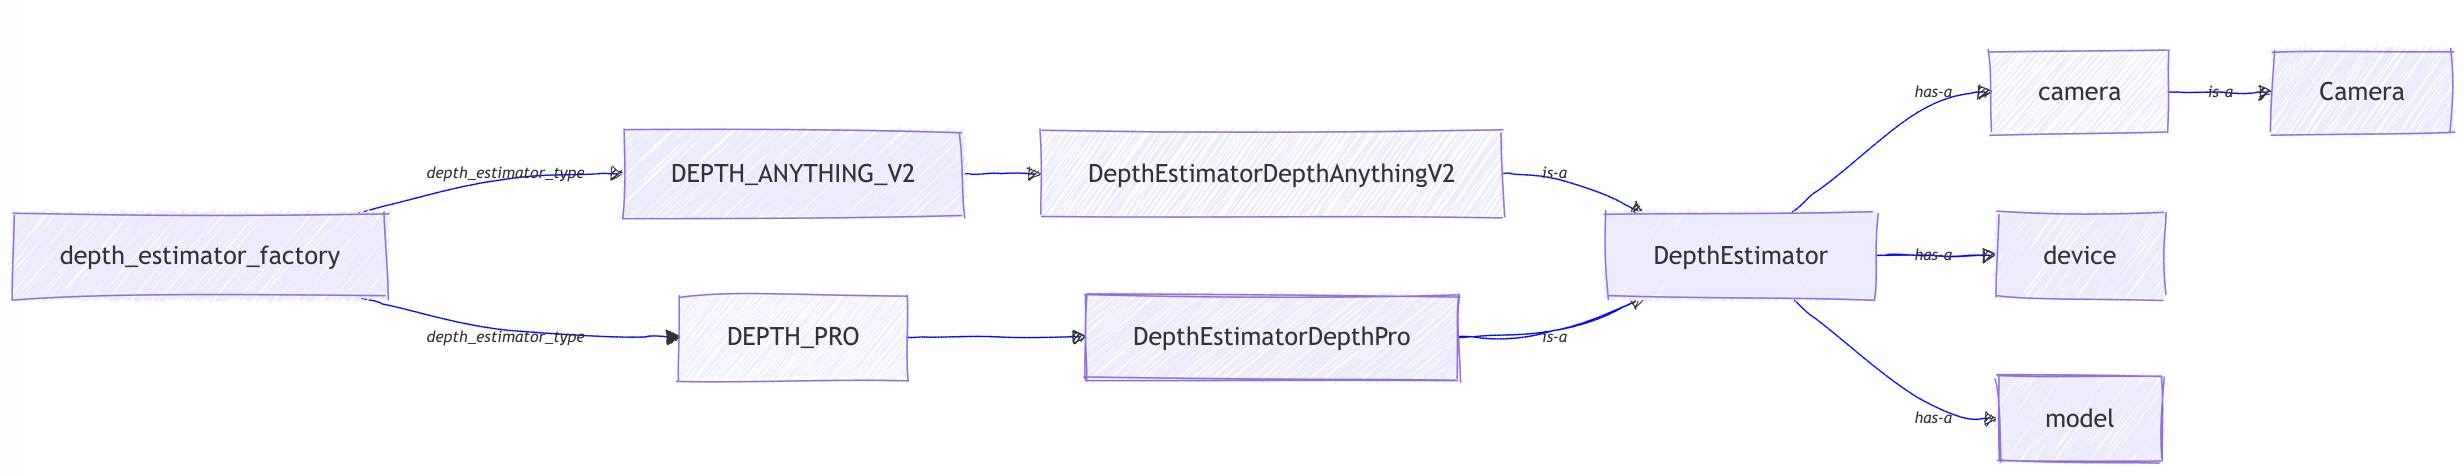
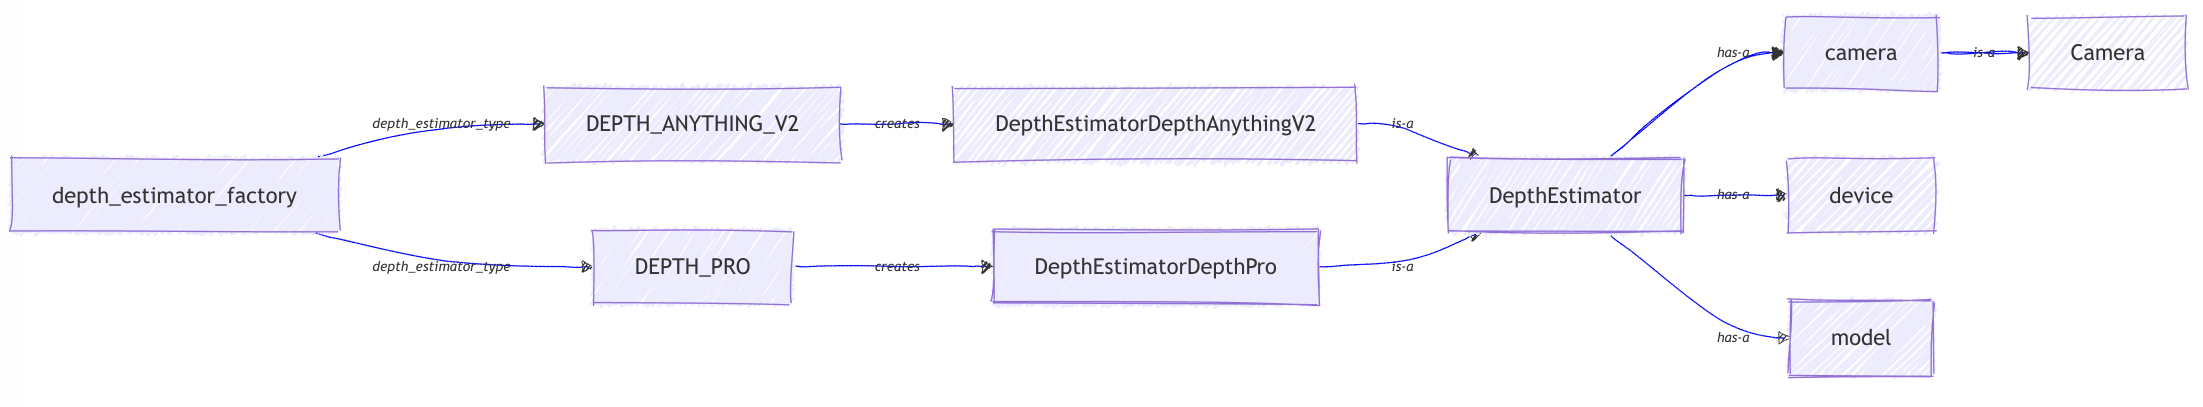
Improved README.

diff --git a/loop_detector_configs.py b/loop_detector_configs.py
@@ -63,12 +63,16 @@ kDataFolder = kRootFolder + '/data'
 @register_class
 class GlobalDescriptorType(SerializableEnum):
     # These types take the name from the adopted aggregation type and underlying local descriptor type. 
-    DBOW2       = 0     # Bags of Words (BoW). This implementation only works with ORB local features. It needs an ORB vocabulary (available).
+    DBOW2       = 0     # Bags of Words (BoW). This implementation only works with ORB local features. 
+                        # It needs an ORB vocabulary (available).
                         # Reference: "Bags of Binary Words for Fast Place Recognition in Image Sequences"
-    DBOW3       = 1     # Bags of Words (BoW). It needs a vocabulary (available for ORB).
-    OBINDEX2    = 2     # Hierarchical indexing scheme. Incremental Bags of binary Words. Incrementally builds a vocabulary. If needed, it transforms the input non-binary local descriptors into binary descriptors.
+    DBOW3       = 1     # Bags of Words (BoW).
+                        # It needs a vocabulary (available for ORB).
+    OBINDEX2    = 2     # Hierarchical indexing scheme. Incremental Bags of binary Words. 
+                        # Incrementally builds a vocabulary. If needed, it transforms the input non-binary local descriptors into binary descriptors.
                         # Reference: "iBoW-LCD: An Appearance-based Loop Closure Detection Approach using Incremental Bags of Binary Words"
-    IBOW        = 3     # Incremental Bags of binary Words (iBoW). Built on the top of OBINDEX2. It incrementally builds a vocabulary. If needed, it transforms input non-binary local descriptors into binary descriptors.
+    IBOW        = 3     # Incremental Bags of binary Words (iBoW). Built on the top of OBINDEX2. 
+                        # It incrementally builds a vocabulary. If needed, it transforms input non-binary local descriptors into binary descriptors.
                         # Reference: "iBoW-LCD: An Appearance-based Loop Closure Detection Approach using Incremental Bags of Binary Words"
     HDC_DELF    = 4     # Local DELF descriptor + Hyperdimensional Computing (HDC).
                         # Reference: "Large-Scale Image Retrieval with Attentive Deep Local Features", "Hyperdimensional Computing as a Framework for Systematic Aggregation of Image Descriptors"

diff --git a/opencv_check.py b/opencv_check.py
@@ -37,3 +37,13 @@ if __name__ == "__main__":
         except Exception as e:
             print(f"Exception: {e}")
             print(f'Could not find linked OpenCV library details')
+            
+            
+    if True: 
+        try: 
+            detector = cv2.xfeatures2d.SURF_create()
+            print(f"Detector: {detector} created")
+            print(f'You have non-free OpenCV support!')
+        except Exception as e:
+            print(f"Exception: {e}")
+            print(f'Could not create SURF detector: You dont have non-free OpenCV support!')

diff --git a/README.md b/README.md
@@ -5,50 +5,52 @@ Author: **[Luigi Freda](https://www.luigifreda.com)**
 <!-- TOC -->
 
 - [pySLAM v2.2.5](#pyslam-v225)
-  - [Install](#install)
-    - [Main requirements](#main-requirements)
-    - [Ubuntu](#ubuntu)
-    - [MacOS](#macos)
-    - [Docker](#docker)
-    - [How to install non-free OpenCV modules](#how-to-install-non-free-opencv-modules)
-    - [Troubleshooting and performance issues](#troubleshooting-and-performance-issues)
-  - [Usage](#usage)
-    - [Feature tracking](#feature-tracking)
-    - [Loop closing](#loop-closing)
-    - [Volumetric reconstruction pipeline](#volumetric-reconstruction-pipeline)
-    - [Depth prediction](#depth-prediction)
-    - [Save and reload a map](#save-and-reload-a-map)
-    - [Relocalization in a loaded map](#relocalization-in-a-loaded-map)
-    - [Trajectory saving](#trajectory-saving)
-    - [SLAM GUI](#slam-gui)
-    - [Monitor the logs for tracking, local mapping, and loop closing simultaneously](#monitor-the-logs-for-tracking-local-mapping-and-loop-closing-simultaneously)
-  - [Supported local features](#supported-local-features)
-  - [Supported matchers](#supported-matchers)
-  - [Supported global descriptors and local descriptor aggregation methods](#supported-global-descriptors-and-local-descriptor-aggregation-methods)
-      - [Local descriptor aggregation methods](#local-descriptor-aggregation-methods)
-      - [Global descriptors](#global-descriptors)
-  - [Supported depth prediction models](#supported-depth-prediction-models)
-  - [Datasets](#datasets)
-    - [KITTI Datasets](#kitti-datasets)
-    - [TUM Datasets](#tum-datasets)
-    - [EuRoC Dataset](#euroc-dataset)
-  - [Camera Settings](#camera-settings)
-  - [Comparison pySLAM vs ORB-SLAM3](#comparison-pyslam-vs-orb-slam3)
-  - [Contributing to pySLAM](#contributing-to-pyslam)
-  - [References](#references)
-  - [Credits](#credits)
-  - [TODOs](#todos)
+    - [1. Install](#1-install)
+        - [1.1. Main requirements](#11-main-requirements)
+        - [1.2. Ubuntu](#12-ubuntu)
+        - [1.3. MacOS](#13-macos)
+        - [1.4. Docker](#14-docker)
+        - [1.5. How to install non-free OpenCV modules](#15-how-to-install-non-free-opencv-modules)
+        - [1.6. Troubleshooting and performance issues](#16-troubleshooting-and-performance-issues)
+    - [2. Usage](#2-usage)
+        - [2.1. Feature tracking](#21-feature-tracking)
+        - [2.2. Loop closing](#22-loop-closing)
+            - [2.2.1. Vocabulary management for DBoW and VLAD](#221-vocabulary-management-for-dbow-and-vlad)
+            - [2.2.2. Vocabulary-free loop closing](#222-vocabulary-free-loop-closing)
+        - [2.3. Volumetric reconstruction pipeline](#23-volumetric-reconstruction-pipeline)
+        - [2.4. Depth prediction](#24-depth-prediction)
+        - [2.5. Save and reload a map](#25-save-and-reload-a-map)
+        - [2.6. Relocalization in a loaded map](#26-relocalization-in-a-loaded-map)
+        - [2.7. Trajectory saving](#27-trajectory-saving)
+        - [2.8. SLAM GUI](#28-slam-gui)
+        - [2.9. Monitor the logs for tracking, local mapping, and loop closing simultaneously](#29-monitor-the-logs-for-tracking-local-mapping-and-loop-closing-simultaneously)
+    - [3. Supported local features](#3-supported-local-features)
+    - [4. Supported matchers](#4-supported-matchers)
+    - [5. Supported global descriptors and local descriptor aggregation methods](#5-supported-global-descriptors-and-local-descriptor-aggregation-methods)
+            - [5.1. Local descriptor aggregation methods](#51-local-descriptor-aggregation-methods)
+            - [5.2. Global descriptors](#52-global-descriptors)
+    - [6. Supported depth prediction models](#6-supported-depth-prediction-models)
+    - [7. Datasets](#7-datasets)
+        - [7.1. KITTI Datasets](#71-kitti-datasets)
+        - [7.2. TUM Datasets](#72-tum-datasets)
+        - [7.3. EuRoC Dataset](#73-euroc-dataset)
+    - [8. Camera Settings](#8-camera-settings)
+    - [9. Comparison pySLAM vs ORB-SLAM3](#9-comparison-pyslam-vs-orb-slam3)
+    - [10. Contributing to pySLAM](#10-contributing-to-pyslam)
+    - [11. References](#11-references)
+    - [12. Credits](#12-credits)
+    - [13. TODOs](#13-todos)
 
 <!-- /TOC -->
  
-**pySLAM** is a python implementation of a *Visual SLAM* pipeline that supports **monocular**, **stereo** and **RGBD** cameras. It provides the following features:
+**pySLAM** is a python implementation of a *Visual SLAM* pipeline that supports **monocular**, **stereo** and **RGBD** cameras. It provides the following **features**:
 - A wide range of classical and modern **[local features](#supported-local-features)** with a convenient interface for their integration.
 - Various loop closing methods, including **[descriptor aggregators](#supported-global-descriptors-and-local-descriptor-aggregation-methods)** such as visual Bag of Words (BoW, iBow), Vector of Locally Aggregated Descriptors (VLAD) and modern **[global descriptors](#supported-global-descriptors-and-local-descriptor-aggregation-methods)** (image-wise descriptors).
 - A **[volumetric reconstruction pipeline](#volumetric-reconstruction-pipeline)** that processes available depth and color images.
 - Integration of **[depth prediction models](#depth-prediction)**, including DepthPro and DepthAnythingV2, within the SLAM pipeline.  
 - A collection of other useful tools for VO and SLAM.
 
-**Main Scripts**:
+**Main Scripts**
 * `main_vo.py` combines the simplest VO ingredients without performing any image point triangulation or windowed bundle adjustment. At each step $k$, `main_vo.py` estimates the current camera pose $C_k$ with respect to the previous one $C_{k-1}$. The inter-frame pose estimation returns $[R_{k-1,k},t_{k-1,k}]$ with $\Vert t_{k-1,k} \Vert=1$. With this very basic approach, you need to use a ground truth in order to recover a correct inter-frame scale $s$ and estimate a valid trajectory by composing $C_k = C_{k-1} [R_{k-1,k}, s t_{k-1,k}]$. This script is a first start to understand the basics of inter-frame feature tracking and camera pose estimation.
 
 * `main_slam.py` adds feature tracking along multiple frames, point triangulation, keyframe management, bundle adjustment, loop closing, dense mapping and depth inference in order to estimate the camera trajectory and build both a sparse and dense map. It's a full SLAM pipeline and includes all the basic and advanced blocks which are necessary to develop a real visual SLAM pipeline.
@@ -59,7 +61,8 @@ Author: **[Luigi Freda](https://www.luigifreda.com)**
   
 * `main_map_viewer.py` allows to reload a saved map and visualize it. Further details [here](#relocalization-in-a-loaded-map).
 
-You can find a couple of diagram sketches [here](./docs/basic_architecture.md), designed to provide an overview of the **main classes' architecture**.
+**System architecture overview**      
+[Here](./docs/basic_architecture.md) you can find a couple of diagram sketches that provide an overview of the main system components, and classes relationships and dependencies.
 
 You can use the pySLAM framework as a baseline to experiment with VO techniques, *[local features](#supported-local-features)*, *[descriptor aggregators](#supported-global-descriptors-and-local-descriptor-aggregation-methods)*, *[global descriptors](#supported-global-descriptors-and-local-descriptor-aggregation-methods)*, *[volumetric integration](#volumetric-reconstruction-pipeline)*, *[depth prediction](#depth-prediction)*, and create your own (proof of concept) VO/SLAM pipeline in python. When working with it, please keep in mind this is a research framework written in Python and a work in progress. It is not designed for real-time performances.   
 
@@ -93,7 +96,7 @@ Then, use the available specific install procedure according to your OS. The pro
 ### Main requirements
 
 * Python 3.8.10
-* OpenCV >=4.8.1 (see [below](#how-to-install-non-free-opencv-modules))
+* OpenCV >=4.10 (see [below](#how-to-install-non-free-opencv-modules))
 * PyTorch 2.3.1
 * Tensorflow 2.13.1
 * Kornia 0.7.3
@@ -123,13 +126,13 @@ If you prefer docker or you have an OS that is not supported yet, you can use [r
 
 ### How to install non-free OpenCV modules
 
-The provided install scripts will install a recent opencv version (>=**4.10**) with non-free modules enabled (see the provided scripts [install_pip3_packages.sh](./install_pip3_packages.sh) and [install_opencv_python.sh](./install_opencv_python.sh)).
-
-To verify your installed OpenCV version, use the following command:      
-`$ python3 -c "import cv2; print(cv2.__version__)"`
-
-How to check if you have non-free OpenCV module support (no errors imply success):       
-`$ python3 -c "import cv2; detector = cv2.xfeatures2d.SURF_create()"` 
+The provided install scripts will install a recent opencv version (>=**4.10**) with non-free modules enabled (see the provided scripts [install_pip3_packages.sh](./install_pip3_packages.sh) and [install_opencv_python.sh](./install_opencv_python.sh)). To quickly verify your installed opencv version run:       
+`$ . pyenv-activate.sh `        
+`$ ./opencv_check.py`       
+or use the following command:        
+`$ python3 -c "import cv2; print(cv2.__version__)"`      
+How to check if you have non-free OpenCV module support (no errors imply success):          
+`$ python3 -c "import cv2; detector = cv2.xfeatures2d.SURF_create()"`    
 
 
 ### Troubleshooting and performance issues
@@ -176,19 +179,27 @@ Some basic examples are available in the subfolder `test/loopclosing`. In partic
 
 ### Loop closing
 
-Different [loop closing methods](#loop-closing) are available. These combines the available [aggregation methods](#local-descriptor-aggregation-methods) and [global descriptors](#global-descriptors).
-Loop closing is enabled by default. You can disable it by setting `kUseLoopClosing=False` in `parameters.py`. See the file [loop_detector_configs.py](loop_detector_configs.py) for the different available configs.
+Different [loop closing methods](#loop-closing) are available, combining [aggregation methods](#local-descriptor-aggregation-methods) and [global descriptors](#global-descriptors).
+Loop closing is enabled by default and can be disabled by setting `kUseLoopClosing=False` in `parameters.py`. Configuration options can be found in [loop_detector_configs.py](loop_detector_configs.py).
 
-Some **example files** are available in the subfolder `test/loopclosing`.  In particular, you may want to start from [test/loopclosing/test_loop_detector.py](./test/loopclosing/test_loop_detector.py).
+**Examples**: Start with the examples in `test/loopclosing`, such as [test/loopclosing/test_loop_detector.py](./test/loopclosing/test_loop_detector.py).
 
-**How to generate the array descriptors to train a vocabulary (DBoW, VLAD)**     
-Generate the array of descriptors to train your target vocabulary by using the script `test/loopclosing/test_gen_des_array_from_imgs.py`. Select your desired descriptor type by using the tracker configuration. 
 
-**DBOW vocabulary generation**      
-Train your target vocabulary by using the script `test/loopclosing/test_gen_dbow_voc_from_des_array.py`.
+#### Vocabulary management for DBoW and VLAD
 
-**VLAD vocabulary generation**     
-Train your target VLAD "vocabulary" by using the script `test/loopclosing/test_gen_vlad_voc_from_des_array.py`.
+- **Generate descriptors array**: Use `test/loopclosing/test_gen_des_array_from_imgs.py` to generate the array of descriptors for training a vocabulary. Select your desired descriptor type via the tracker configuration. 
+
+- **DBOW vocabulary generation**: Train your target vocabulary by using the script `test/loopclosing/test_gen_dbow_voc_from_des_array.py`.
+
+- **VLAD vocabulary generation**: Train your target VLAD "vocabulary" by using the script `test/loopclosing/test_gen_vlad_voc_from_des_array.py`.
+
+#### Vocabulary-free loop closing
+
+Most methods do not require pre-trained vocabularies. Specifically:
+- `iBoW` and `OBindex2`: These methods incrementally build bags of binary words and, if needed, convert (front-end) non-binary descriptors into binary ones. 
+- Others: Methods like HDC_DELF, SAD, AlexNet, NetVLAD, CosPlace, and EigenPlaces directly extract global descriptors and process them using dedicated aggregators.
+
+Only DBoW2, DBoW3, and VLAD require pre-trained vocabularies.
 
 ### Volumetric reconstruction pipeline
 

diff --git a/docs/images/loop_detector_mermaid.md b/docs/images/loop_detector_mermaid.md
@@ -38,18 +38,18 @@ graph LR;
     class LoopDetectorBase loopDetectorBase;
     class LoopDetectorVprBase loopDetectorVprBase;
 
-    DBOW2 --> LoopDetectorDBoW2;
-    DBOW3 --> LoopDetectorDBoW3;
-    VLAD --> LoopDetectorVlad;
-    OBINDEX2 --> LoopDetectorOBIndex2;
-    IBOW --> LoopDetectorIBow;
+    DBOW2 -->|*creates*| LoopDetectorDBoW2;
+    DBOW3 -->|*creates*| LoopDetectorDBoW3;
+    VLAD -->|*creates*| LoopDetectorVlad;
+    OBINDEX2 -->|*creates*| LoopDetectorOBIndex2;
+    IBOW -->|*creates*| LoopDetectorIBow;
 
-    HDC_DELF --> LoopDetectorHdcDelf;
-    SAD --> LoopDetectorSad;
-    ALEXNET --> LoopDetectorAlexNet;
-    NETVLAD --> LoopDetectorNetVLAD;
-    COSPLACE --> LoopDetectorCosPlace;
-    EIGENPLACES --> LoopDetectorEigenPlaces;
+    HDC_DELF -->|*creates*| LoopDetectorHdcDelf;
+    SAD -->|*creates*| LoopDetectorSad;
+    ALEXNET -->|*creates*| LoopDetectorAlexNet;
+    NETVLAD -->|*creates*| LoopDetectorNetVLAD;
+    COSPLACE -->|*creates*| LoopDetectorCosPlace;
+    EIGENPLACES -->|*creates*| LoopDetectorEigenPlaces;
 
     %% Hierarchical relationships
     LoopDetectorDBoW2 -->|*_is-a_*| LoopDetectorBase;

diff --git a/docs/basic_architecture.md b/docs/basic_architecture.md
@@ -1,14 +1,16 @@
 # Architecture
 
-Here are a couple of sketches intended to provide an overview of the main classes' architecture. [WIP] 
+Here you can find a couple of diagram sketches that provide an overview of the main system components, and classes relationships and dependencies. **[WIP]** 
 
 ---
-## SLAM 
+## SLAM System
 
 <p align="center">
 <img src="./images/slam_architecture.png" alt="SLAM"  /> 
 </p>
 
+
+**Note**: You might be wondering why I used **Processes** instead of **Threads** in some cases. The reason is that, at least in Python 3.8 (the version supporting pySLAM), only one thread can execute at a time within a single process due to the Global Interpreter Lock (GIL). On the other hand, using multiprocessing (separate processes that do not share the GIL) enables better parallelism.
 
 ---
 ## Feature Tracker

diff --git a/docs/images/feature_tracker_mermaid.md b/docs/images/feature_tracker_mermaid.md
@@ -30,12 +30,12 @@ graph LR;
     class LightGlueFeatureTracker singleTracker;
     class LoFTRFeatureTracker singleTracker;
     
-    LK --> LKFeatureTracker;
-    DES_BF --> DescriptorFeatureTracker;
-    DES_FLANN --> DescriptorFeatureTracker;
-    XFEAT --> XFeatureTracker;
-    LIGHTGLUE --> LightGlueFeatureTracker;
-    LOFTR --> LoFTRFeatureTracker;
+    LK -->|*creates*| LKFeatureTracker;
+    DES_BF -->|*creates*| DescriptorFeatureTracker;
+    DES_FLANN -->|*creates*| DescriptorFeatureTracker;
+    XFEAT -->|*creates*| XFeatureTracker;
+    LIGHTGLUE -->|*creates*| LightGlueFeatureTracker;
+    LOFTR -->|*creates*| LoFTRFeatureTracker;
     
     LKFeatureTracker -->|*_is-a_*| FeatureTracker;
     DescriptorFeatureTracker -->|*_is-a_*| FeatureTracker;

diff --git a/docs/images/feature_matcher.md b/docs/images/feature_matcher.md
@@ -28,11 +28,11 @@ graph LR;
     class LightGlueMatcher singleMatcher;
     class LoFTRMatcher singleMatcher;
     
-    BF --> BfFeatureMatcher;
-    FLANN --> FlannFeatureMatcher;
-    XFEAT --> XFeatMatcher;
-    LIGHTGLUE --> LightGlueMatcher;
-    LOFTR --> LoFTRMatcher
+    BF -->|*creates*| BfFeatureMatcher;
+    FLANN -->|*creates*| FlannFeatureMatcher;
+    XFEAT -->|*creates*| XFeatMatcher;
+    LIGHTGLUE -->|*creates*| LightGlueMatcher;
+    LOFTR -->|*creates*| LoFTRMatcher
     
     BfFeatureMatcher -->|*_is-a_*| FeatureMatcher;
     FlannFeatureMatcher -->|*_is-a_*| FeatureMatcher;

diff --git a/docs/images/depth_estimator.md b/docs/images/depth_estimator.md
@@ -21,8 +21,8 @@ graph LR;
     depth_estimator_factory -->|*depth_estimator_type*| DEPTH_PRO;    
 
 
-    DEPTH_ANYTHING_V2 --> DepthEstimatorDepthAnythingV2;
-    DEPTH_PRO --> DepthEstimatorDepthPro;
+    DEPTH_ANYTHING_V2 -->|*_creates_*| DepthEstimatorDepthAnythingV2;
+    DEPTH_PRO -->|*_creates_*| DepthEstimatorDepthPro;
 
     %% DepthEstimator classes
     classDef depthEstimator fill:#f9f,stroke:#333,stroke-width:2px;
